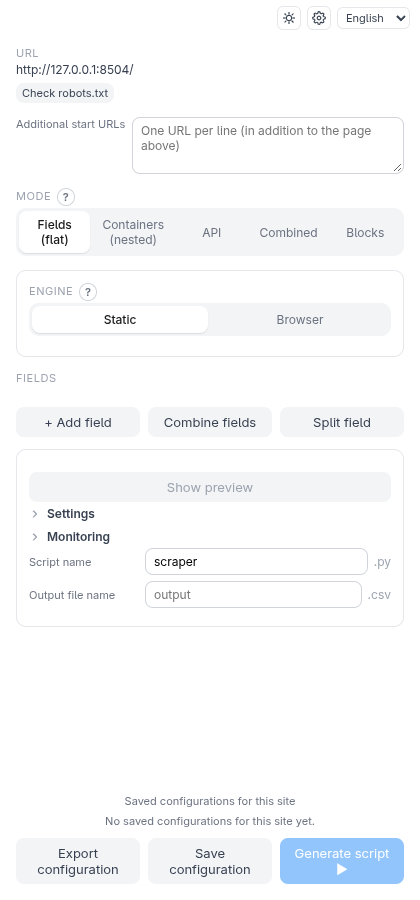
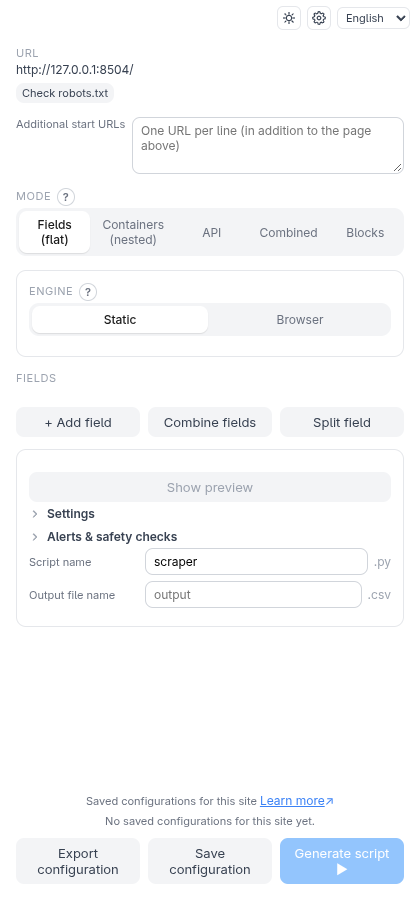
docs: document the bundled documentation and Learn more links; refresh screenshots; fix link styling (#354)

Changed region(s): [[0.2167, 0.8711, 0.7738, 0.9022], [0.0929, 0.5911, 0.4333, 0.6222]]

diff --git a/e2e/examples/issue-354-bundled-docs-check.js b/e2e/examples/issue-354-bundled-docs-check.js
@@ -1,0 +1,145 @@
+// Issue #354 Part B: real-browser check of the bundled documentation and the
+// "Learn more" links, in the real unpacked extension.
+//   - a "Learn more" link in the side panel opens the matching page of the
+//     BUNDLED documentation in a new tab: a chrome-extension:// address (no
+//     internet needed — every request the page makes stays inside the
+//     extension), with the page's heading, its image, the navigation and a
+//     working link to another page;
+//   - a help popover with a doc key ("Checks after every run") offers the link
+//     too and lands on the right heading;
+//   - the link follows the language (de: "Mehr erfahren");
+//   - the long hints are one line now (the retry hint reads as one short line);
+//   - a release-channel build contains the docs as well;
+//   - the Monitoring section stays within the panel at 320/400 px.
+//
+// Runs its own companion on port 5055, so a companion a human already has
+// running on the default port is never used or touched.
+//
+// Usage: node e2e/examples/issue-354-bundled-docs-check.js
+const fs = require('fs');
+const os = require('os');
+const path = require('path');
+const { execFileSync } = require('child_process');
+const { launchBrowser, openPopup, focusFixture, waitForIdleScreen, startCompanion, startFixture } = require('../harness');
+
+function assert(condition, message) {
+  if (!condition) throw new Error(message);
+}
+
+(async () => {
+  const companion = await startCompanion({ port: 5055 });
+  if (companion.alreadyRunning) throw new Error('Something is already listening on port 5055 — stop it first.');
+  const fixture = await startFixture('speisekarte');
+  const browser = await launchBrowser();
+
+  try {
+    const fixturePage = await browser.context.newPage();
+    await fixturePage.goto(fixture.url);
+    const popup = await openPopup(browser.context, browser.extensionId);
+    await popup.evaluate(() => chrome.storage.local.set({ language: 'en', companionUrlOverride: 'http://localhost:5055' }));
+    await popup.reload();
+    await focusFixture(fixturePage);
+    await waitForIdleScreen(popup);
+    const origin = `chrome-extension://${browser.extensionId}/`;
+
+    // 1) A hint link opens the bundled page in a new tab.
+    await popup.click('#monitoring-section-toggle');
+    const hintLink = popup.locator('.monitoring-intro a.learn-more');
+    assert(await hintLink.isVisible(), 'the Monitoring intro should carry a "Learn more" link');
+    assert((await hintLink.textContent()) === 'Learn more', 'unexpected link text');
+    const requests = [];
+    browser.context.on('request', (r) => requests.push(r.url()));
+    const [docPage] = await Promise.all([browser.context.waitForEvent('page'), hintLink.click()]);
+    await docPage.waitForLoadState('load');
+    assert(docPage.url() === `${origin}docs/monitoring.html`, `unexpected address: ${docPage.url()}`);
+    assert((await docPage.locator('h1').textContent()) === 'Safety checks and alerts', 'unexpected heading');
+    assert(await docPage.locator('h2#safety-checks').count() === 1, 'the page should carry the heading anchors');
+    const imageOk = await docPage.evaluate(() => {
+      const img = document.querySelector('img[src="images/monitoring-recommended.png"]');
+      return !!img && img.complete && img.naturalWidth > 0;
+    });
+    assert(imageOk, 'the screenshot on the page should load from the bundle');
+    assert(await docPage.locator('nav.docs-nav a').count() >= 10, 'the page should list the other pages in its navigation');
+    await docPage.screenshot({ path: path.join(__dirname, 'issue-354-docs-page.png') });
+    console.log('hint link: opened', docPage.url());
+
+    // 2) A link between pages stays inside the bundle.
+    await docPage.locator('nav.docs-nav a', { hasText: 'Output formats' }).click();
+    await docPage.waitForLoadState('load');
+    assert(docPage.url() === `${origin}docs/output.html`, `navigation went to ${docPage.url()}`);
+    assert(await docPage.locator('h2#output-layouts').count() === 1, 'the output page should carry its headings');
+    const outside = requests.filter((u) => !u.startsWith(origin) && !u.startsWith('data:') && !u.startsWith('blob:'));
+    assert(outside.length === 0, `the docs reached outside the extension: ${JSON.stringify(outside)}`);
+    console.log('navigation: stays in the extension, no outside request');
+    await docPage.close();
+
+    // 3) A help popover offers the link and lands on the heading.
+    await focusFixture(fixturePage);
+    if (!(await popup.locator('#hardening-config').isVisible())) await popup.click('#monitoring-section-toggle');
+    const helpButton = popup.locator('#hardening-config .help-host[data-help="help.hardening.severity"] .help-btn');
+    await helpButton.click();
+    const popoverLink = popup.locator(`#${await helpButton.getAttribute('aria-controls')} a.learn-more`);
+    assert(await popoverLink.isVisible(), 'the popover should offer a "Learn more" link');
+    const [docPage2] = await Promise.all([browser.context.waitForEvent('page'), popoverLink.click()]);
+    await docPage2.waitForLoadState('load');
+    assert(docPage2.url() === `${origin}docs/monitoring.html#safety-checks`, `unexpected address: ${docPage2.url()}`);
+    assert(await docPage2.locator('#safety-checks').isVisible(), 'the target heading should be visible');
+    await docPage2.close();
+    console.log('popover link: monitoring.html#safety-checks');
+
+    // 4) The long hints are one short line now.
+    await popup.click('#settings-section-toggle');
+    await popup.check('#toggle-retry');
+    const retryHint = await popup.locator('#retry-config .preview-summary span[data-i18n="idle.retryHint"]').textContent();
+    assert(retryHint.length <= 160, `the retry hint should be one short line, got ${retryHint.length} characters`);
+    assert(retryHint === 'Retries after a connection error, a timeout or one of these status codes; other errors such as 404 fail at once.', `unexpected retry hint: ${retryHint}`);
+    const retryLink = popup.locator('#retry-config a.learn-more[data-doc="retry"]');
+    const [docPage3] = await Promise.all([browser.context.waitForEvent('page'), retryLink.click()]);
+    await docPage3.waitForLoadState('load');
+    assert(docPage3.url() === `${origin}docs/network-settings.html#retry-on-transient-errors`, `unexpected address: ${docPage3.url()}`);
+    assert((await docPage3.locator('#retry-on-transient-errors').textContent()).includes('Retry on transient errors'), 'the retry section should be on the page');
+    await docPage3.close();
+    console.log('retry: one-line hint, link to the retry section');
+    await popup.uncheck('#toggle-retry');
+
+    // 5) The link follows the language.
+    await popup.evaluate(() => chrome.storage.local.set({ language: 'de' }));
+    await popup.reload();
+    await focusFixture(fixturePage);
+    await waitForIdleScreen(popup);
+    await popup.click('#monitoring-section-toggle');
+    assert((await popup.locator('.monitoring-intro a.learn-more').textContent()) === 'Mehr erfahren', 'the link should read "Mehr erfahren" in German');
+    await popup.evaluate(() => chrome.storage.local.set({ language: 'en' }));
+    await popup.reload();
+    await focusFixture(fixturePage);
+    await waitForIdleScreen(popup);
+    console.log('german: "Mehr erfahren"');
+
+    // 6) The Monitoring section stays inside the panel with the links in it.
+    for (const width of [320, 400]) {
+      await popup.setViewportSize({ width, height: 1200 });
+      if (!(await popup.locator('#hardening-config').isVisible())) await popup.click('#monitoring-section-toggle');
+      const overflow = await popup.evaluate(() => document.documentElement.scrollWidth - document.documentElement.clientWidth);
+      assert(overflow <= 4, `width ${width}px: horizontal overflow ${overflow}px`);
+      console.log(`width ${width}px: overflow ${overflow}px`);
+    }
+    await popup.setViewportSize({ width: 420, height: 1200 });
+    await popup.screenshot({ path: path.join(__dirname, 'issue-354-learn-more.png') });
+
+    // 7) A release-channel build carries the documentation too.
+    const releaseDir = fs.mkdtempSync(path.join(os.tmpdir(), 'sf-release-'));
+    execFileSync(process.execPath, [path.join(__dirname, '../../extension/build.js'), '--channel', 'release', '--outdir', releaseDir], { stdio: 'pipe' });
+    assert(fs.existsSync(path.join(releaseDir, 'docs/monitoring.html')) && fs.existsSync(path.join(releaseDir, 'docs/images/monitoring-recommended.png')), 'the release build should contain docs/');
+    console.log('release build: docs/ present');
+
+    console.log('OK — "Learn more" opens the bundled documentation offline; the long hints are one line.');
+  } catch (err) {
+    const t = await browser.context.pages().at(-1).locator('#error-toast').textContent().catch(() => null);
+    if (t) console.error('Toast:', t.replace(/\s+/g, ' ').slice(0, 300));
+    throw err;
+  } finally {
+    await browser.close().catch(() => {});
+    await fixture.stop?.();
+    await companion.stop?.();
+  }
+})().catch((err) => { console.error(err); process.exit(1); });

diff --git a/extension/popup/popup.html b/extension/popup/popup.html
@@ -58,9 +58,10 @@
     <div id="error-guidance-long" class="error-guidance hidden">
       <p class="error-intro"><span data-i18n="error.intro"></span> <a class="learn-more" data-doc="companionUnreachable" href="#" data-i18n="common.learnMore"></a></p>
       <div id="error-situation-install" class="error-situation">
-        <h3><span data-i18n="error.install.title"></span> <span class="error-likely hidden" data-i18n="error.likely"></span> <a class="learn-more" data-doc="start" href="#" data-i18n="common.learnMore"></a></h3>
+        <h3><span data-i18n="error.install.title"></span> <span class="error-likely hidden" data-i18n="error.likely"></span></h3>
         <p id="error-install-text"></p>
         <code id="error-install-command" class="error-code"></code>
+        <p class="error-more"><a class="learn-more" data-doc="start" href="#" data-i18n="common.learnMore"></a></p>
       </div>
       <div id="error-situation-start" class="error-situation">
         <h3><span data-i18n="error.start.title"></span> <span class="error-likely hidden" data-i18n="error.likely"></span></h3>

diff --git a/extension/popup/popup.css b/extension/popup/popup.css
@@ -1114,6 +1114,8 @@ input.env-var-invalid, input.env-var-invalid:focus { border-color: var(--color-d
 .glossary-example { display: block; margin-top: 2px; }
 
 /* Issue #354 Part B: "Learn more" opens the bundled documentation in a tab */
-.learn-more { font-size: 12px; white-space: nowrap; color: var(--color-primary); text-decoration: underline; }
+.learn-more { text-transform: none; letter-spacing: normal; font-weight: 400; font-size: 12px; white-space: nowrap; color: var(--color-primary); text-decoration: underline; }
 .learn-more::after { content: ' ↗'; text-decoration: none; display: inline-block; }
 .help-popover-more { margin: 4px 0 0; }
+
+.error-more { margin: 4px 0 0; }

diff --git a/CLAUDE.md b/CLAUDE.md
@@ -77,6 +77,7 @@ docs/
 - **Dark mode + visual modernization pass** (Issue #140): builds directly on #139's token groundwork — every color/overlay/shadow token now lives in a light/dark pair instead of one fixed set. `:root` carries the light defaults; `@media (prefers-color-scheme: dark) { :root:not([data-theme]) { ... } }` redefines them automatically when the OS prefers dark and the user hasn't made an explicit choice; an explicit `html[data-theme="light"|"dark"]` override (see `shared/theme.js` below) always wins over both, and needs no rule of its own for "light" specifically since the media query already stays out of its way when the attribute is present. `color-scheme: light dark` on `:root` (narrowed to a single value by the two explicit-override rules) gives native form controls — checkbox/select-popup chrome, and any `input`/`textarea` with no explicit background of its own, like `#input-additional-urls` — a correct dark rendering for free. **Contrast audit** (called for by the issue): every status color already read from #139's token set, so brightening them for dark backgrounds was enough — no per-rule changes needed for `.robots-txt-allowed`/`.preview-summary.warn`/toast variants/etc. One real bug the audit *did* catch: several "white text on a colored background" rules (`.btn-primary`, `.toast`, picked chips) used `var(--color-surface)` for that text color — correct by coincidence in light mode (surface happens to be white) but flips to near-black in dark mode. A new theme-agnostic `--color-on-accent` token (always a light color regardless of theme, since the accent backgrounds themselves stay readable with light text in both) replaces `--color-surface` at every one of those call sites. **Manual toggle**: a new `extension/shared/theme.js` mirrors `i18n.js`'s `getStoredLanguage`/`setLanguage` pattern exactly (`chrome.storage.local`), with one difference — "follow the OS" is a real third state, represented as `null` (not a storable `'system'` string) throughout the module. `#theme-toggle` next to the language selector cycles system → light → dark → system on click (`SFTheme.cycleTheme`), a single compact icon button chosen over a dropdown for lack of panel-width room next to the existing language `<select>`. **Modernization** (requested alongside the issue, not part of its own scope): the radius scale is nudged up again (6/8/10/14, from #139's 4/6/8/10) for a softer feel; `--transition-fast` switches from a plain linear ease to the "standard" `cubic-bezier(0.4, 0, 0.2, 1)` easing curve; a new `--glow-primary` gives `.btn-primary:hover` a soft colored glow instead of a flat color swap; the old flat `--shadow-sm`/`--shadow-md` pair is replaced by a graded `--elevation-1/2/3` scale (layered shadow pairs) for more "floating" depth on the mode-toggle active pill and modal; the `.mode-toggle`/`.mode-btn` segmented controls (mode/engine/notify-method — three markup instances) gain an animated sliding `.mode-toggle-thumb` behind the active button instead of each button just recoloring itself in place, positioned via `popup.js`'s `syncModeToggleThumbs()` (JS, not CSS-only, since it depends on the active button's actual rendered offset/width) — called at the end of every `render()` and on a rAF-throttled `window.resize` listener, since the side panel is user-resizable; `.engine-section`/`.output-settings` get an outlined "card" (border only, no fill, since their own children already use `--color-surface-subtle`) to break up the idle screen's otherwise undifferentiated list of settings — the mode-specific sections are deliberately left unboxed since they're the primary content being edited and already carry their own row-level visual treatment; every scrollable container from #138/#122 gets a slim `::-webkit-scrollbar` (Chromium-only, matching the extension's own supported browser range). Deliberately out of scope, same reasoning as #139: turning text-label buttons into icon+label.
 - **esbuild bundling; "Load unpacked" points at `extension/dist/`** (Issue #389): the extension is no longer loaded straight from its source folder. `extension/build.js` (`npm run build`, `npm run build:watch`, plus `--channel release` and `--outdir <dir>` for `install/build-bundle.sh`) bundles four entry points — `popup/popup.js` (side panel), `content/content-script.js` (isolated world, every frame; `shared/logger.js` is bundled in, so the manifest no longer lists it), `content/api-capture.js` (the `"world": "MAIN"` recorder, `document_start`) and `background/service-worker.js` — as `iife` for Chromium 114+ into `dist/<same relative path>`, source maps beside them, and copies the static files (`manifest.json`, `popup/popup.html`, `popup/popup.css`, `popup/screens/*.html`) to the same relative paths, so `chrome.runtime.getURL('popup/screens/idle.html')` and the manifest paths are unchanged. `dist/` is git-ignored; Jest, `tsc` and the e2e harness treat it as build output (`modulePathIgnorePatterns`, `exclude`). **What the bundler replaced:** every module used to carry dual-environment boilerplate so the same file ran as a classic `<script>` (shared global scope) and under Jest (CommonJS) — an IIFE assigning one `self.SFXxx` global, a `typeof require !== 'undefined' ? require(...) : self.SFXxx` shim per import, a `typeof module`/`self` export footer, a 56-line `<script>` list in `popup.html`, and `classic-script-loading.test.js` guarding the top-level-name-collision bug class that came with it. All of that is gone: a module is now plain CommonJS (`const { x } = require('./y')`, `module.exports = { ... }`), `popup.html` has one `<script src="popup.js">`, and Jest keeps running the sources directly. No behavior change. **The three explicit replacements for what used to be environment sniffing:** `i18n/i18n.js` `require`s the three dictionaries statically (inlined into the popup bundle, loaded identically in Jest — no fetch, no `chrome.runtime.getURL`); `popup.js`'s `loadScreenPartial` and `content/api-capture.js`'s fetch/XHR patching check `process.env.NODE_ENV === 'test'` (Jest sets it, the build `define`s it to `"production"`, so the code is dead-branch-free in the bundle and `process` never exists at runtime — never reference `process` for anything else). **Release channel** (Issue #352): `shared/build-config.js` derives `CHANNEL` from `process.env.SF_CHANNEL`, which `build.js` always `define`s (`"development"` by default, `"release"` for `--channel release`); `install/build-bundle.sh` builds the release channel into a temp dir (`npm ci` + `node build.js --channel release --outdir …`, then ships the bundle without `.map` files) instead of `sed`-rewriting a source line, and `build.js` fails the build if a release build did not actually produce the release constant. `shared/companion-url-policy.test.js` builds the real module with each channel to prove it. **Consequences for contributors:** after editing extension code run `npm run build` (or leave `build:watch` running) and reload the extension at `chrome://extensions`; there are no page-level globals any more (`self.SFXxx`, `SFTheme`, a popup's `_state`) — a real-browser check that needs to reach into the popup must go through the DOM, `chrome.storage` or Playwright routes, not `page.evaluate(() => SFFoo…)`; a new module needs no `popup.html` edit, just a `require`. TypeScript conversion stays a separate, file-by-file follow-up.
 - **Monitoring / Hardening in plain language** (Issue #399, UX audit finding 4): the Monitoring section is a "set and forget" feature for scripts that run repeatedly and unattended, but nothing said so, the five hardening checks were bare labels, and the Warning/Error toggle was explained only by a hover tooltip in terms of exit codes. **Labels and help only — no change to the wire format or the generated scripts** (the wire severities stay `Warning`/`Error`; only what the buttons say changed). A one-sentence **intro** (`idle.monitoringIntro`: only useful if you run the script again and again, e.g. every night); a **"Checks after every run"** heading whose "?" (`help.hardening.severity`) explains severity in plain words — **"Warn me"** (the run finishes, a message is printed) vs. **"Stop the run"** (marked as failed so a scheduler/monitor notices; exit code 2, an unexpected crash is 1) — which replaces the four hover-only `…SeverityWarning/ErrorTitle` tooltips (removed, as is the `title` attribute; the dynamic null-rate row never had one); a **"?" popover per check** (`help.hardening.noResult|nullRate|baseline|blocking|requiredFields`, one sentence of purpose plus an example) on the check's own toggle/heading; **thresholds as sentences** — "Trigger if there are [20] % fewer rows than in the last run" (static, `.hardening-sentence`) and, in each dynamic null-rate row, "[Preis ▾] is empty in more than [50] % of the rows" (`idle.hardeningNullRateMiddle/After`; the row now wraps), with the existing defaults (20 % / 50 %) unchanged; the blocking check's two rarely needed signals (**min. response length** as "Page shorter than [ ] bytes (optional)" and **block phrases**) sit under an **Advanced** disclosure (`<details data-advanced="hardening-blocking">`, the #396 component, collapsed by default and remembered) with one popover (`help.hardening.blockingAdvanced`: "1000 bytes is about one paragraph", phrases such as "Access Denied"); the blocking toggle reads "Check whether the site blocks the script". **"Recommended checks"**: `popup/hardening-presets.js` (pure, `@ts-check`) `applyRecommendedHardening(hardening, fieldNames)` → `{ hardening, applied, needsFields }` switches on **"empty result" as "Warn me"** and **"required field" for the FIRST field only, as "Warn me"** — the required-fields check *drops rows* from the output, so it is only suggested for the first field (usually the name/ID that makes a row meaningful), never for all of them (that would silently drop rows whose optional fields are legitimately empty); it **only ever adds** — a check already on, or fields already listed for "required", are left exactly as they are, so a second click changes nothing — and without fields only "empty result" is set and the note says why the rest is missing. Wired in `settings-panel-ui.js` (`#btn-hardening-recommended`, a note `#hardening-recommended-note` saying what was switched on; the button has its own "?" `help.hardening.recommended`); the baseline-drop check was deliberately *not* added to the preset (the issue names "empty result" + required fields). Covered by `hardening-presets.test.js` (the preset incl. the resulting wire checks through `buildHardeningConfig`), `hardening-presets-ui.test.js` (the button, the note, the labels, sentences and the Advanced disclosure against the real `idle.html`) and `e2e/examples/issue-399-hardening-plain-language-check.js` (intro/heading/severity wording, one popover per check with an example, the preset, **the real `/generate` request captured from the network carries exactly `noResult` + `requiredFields[first field]` as warnings**, Advanced collapsed, de/es, 280/320/400 px).
+- **Bundled user documentation, "Learn more" links and one-line hints** (Issue #354 Part B): the long explanations moved out of the side panel into `docs/user/` (Part A), and the panel now links to them **offline**. **Build** (`extension/docs-build.js`, called from `build.js`, rebuilt on change in `build:watch`): `buildDocs({ docsDir, outdir })` turns `docs/user/*.md` into `<outdir>/docs/<page>.html` with the `docs-template/docs.css` stylesheet (light/dark via `prefers-color-scheme`, a navigation of all pages, **no script** — an MV3 extension page may not run inline script) and copies `images/`; it uses **`marked`** (a devDependency, ES-module only, hence `await import('marked')` and a tiny CLI `node docs-build.js <docsDir> <outdir>` that the Jest test runs in a real Node process). Heading ids follow GitHub's slug rule (`slugify`, also what `e2e/screenshots/check-docs.js` now imports, with `-1`/`-2` for repeats); `.md` links become `.html` (anchors kept), a link out of `docs/user/` (the developer docs the README mentions) is shown as plain text since it isn't shipped, and **a link to a missing page, anchor or image fails the build** instead of shipping a dead link. Page order is `PAGE_ORDER` (new pages are appended alphabetically). The pages are served from the extension's own origin (`chrome-extension://<id>/docs/…`), so nothing external is ever fetched — the e2e check records every request of a docs tab and asserts none leaves the extension. **Release bundles**: they take the extension from `dist/` (so the HTML pages are inside it) and `install/build-bundle.sh` additionally copies `docs/user/` (Markdown + images) to `docs/` at the bundle root; `INSTALL.md` says so. **"Learn more"**: `popup/docs-links.js` (`@ts-check`) is the **one table** `key → "page#anchor"` (`DOC_TARGETS`), `resolveDocTarget(key)` returns `docs/<page>.html#anchor`; markup says `<a class="learn-more" data-doc="<key>" href="#" data-i18n="common.learnMore"></a>` (inside a hint: `<p><span data-i18n="…Hint"></span> <a …></a></p>`, since `data-i18n` replaces an element's whole content), DOM built in JS uses `learnMoreHtml(key)`, and a help popover gets the link when its host carries `data-doc="<key>"` (`helpHostHtml(key, docKey)` for built hosts; the env-var note does this). `popup/docs-links-ui.js`: `initDocsLinks()` gives each link its real `chrome.runtime.getURL(...)` address (hover / middle click) and a delegated click (`wireDocsLinkEvents`, wired once) opens it with `chrome.tabs.create` — no new permission, `tabs` was already declared; `popup.js` runs `initDocsLinks()` next to `initHelpPopovers()` (static translation pass and the end of every `render()`). **The registry is enforced both ways** by `docs-links.test.js`: every target must exist as a page + heading of `docs/user` (a renamed heading breaks exactly this table, not the panel), every key used in the HTML/JS must be registered, and **every registered key must be used** (no dead targets). **Hints**: every static `*Hint` paragraph that had grown into a paragraph (nine over 250 characters, about fifteen more over 160) is now one line — what the user must know *before* clicking (a limit, a requirement like `openpyxl`, a warning such as "the session file holds live cookies") — plus its link; the detail moved onto the matching docs page (pause example and robots.txt behaviour in `network-settings.md`, the skip-the-trial-run and editable-config-file sections, the key-file and key-field details of duplicates, the text filter in `modes.md`, the password/token note in `authentication.md`), so nothing was lost. Texts that change what a user must do stay as they were (errors with a next step, `toast.*`, the login-flow instructions, `persistentSessionHint`). `i18n/hint-length.test.js` fails when a `*Hint` grows back over **160 characters in English / 190 in German / 200 in Spanish** — reword short and put the explanation on the page. **Language**: the docs stay English (the German version is a separate, later piece of #354); only the link text (`common.learnMore`) is de/en/es. Covered by `docs-build.test.js` (ids, link rewriting, the failure cases, the real docs build), `docs-links.test.js`, `docs-links-ui.test.js` (address, click, unknown key, popover link), `hint-length.test.js` and `e2e/examples/issue-354-bundled-docs-check.js` (real extension: a hint link and a popover link open the bundled page in a new tab with heading, image and navigation, no request leaves the extension, the retry hint is one line and links to its section, "Mehr erfahren" in German, no overflow at 320/400 px, a release-channel build contains `docs/`).
 - **Terminology pass, Advanced groups, glossary** (Issue #407, UX audit findings 13–18 and 20): **labels and grouping only — wire format, companion and generated scripts unchanged** (the wire still says `blueprint`, `hardening`, `discovery`, `preflight`, `deduplication`; the companion's own English error texts keep those words too, they are not UI). **Names** (all in `de`/`en`/`es`, decided with the maintainer; i18n *keys* stayed, only values changed): *Output blueprint* → **Output layout** / *Ausgabe-Layout* / *Diseño de salida* (a Spanish word with masculine agreement — "eliminado/guardado"); *Hardening* → **Safety checks** (*Sicherheitsprüfungen*, *comprobaciones de seguridad*) incl. the saved-output "Test safety checks" button; the *Monitoring* section → **Alerts & safety checks** (*Benachrichtigungen & Prüfungen*, *Avisos y comprobaciones*); *Preflight* → **Skip if the page hasn't changed**; *Browser discovery* / *Discovery URL* → **Collect from the page (browser)** / **Page to open** (the value-list source "List from another request" is #404's); *Deduplication by key field(s)* → **Remove duplicates**. Blanket string replacement in the dictionaries collided once (the *transform preset* "Nombre de la plantilla" in `es` was also hit) — when renaming a term, search for its other senses first. **Explanations**: new popovers `help.outputLayout.overview` (next to the output-layout select; the host sits on the row with `data-help-anchor` so the panel opens below the row), `help.safetyChecks.overview`, `help.preflight.overview`, `help.dedup.overview` (the long hints stay for #354 Part B). **Advanced** (the remembered #396 component, one `data-advanced` id each): retry **status codes** (`retry-status-codes`), dedup **retention** (`dedup-retention`), **Reuse session between runs** (`persistent-session`), **Editable config file (XML)** on the Settings screen (`external-config`) and the download **size / content-type limits** in both field modals (`download-limits-flat` / `download-limits-container` — separate ids because the two modals aren't on screen together and a remembered state shouldn't half-sync); the scroll step, click target and the blocking/pagination/discovered-URL/API options were already under Advanced. `autoOpenAdvanced(element, shouldOpen)` (moved from `api-config-shared-ui.js` to `advanced-disclosure-ui.js`) opens a disclosure **once** when its option is in use and re-arms when it isn't, so a returning user's setting is never tucked away and a user who closes it isn't fought; "in use" is a toggle that is on, or — pure, in `popup/advanced-defaults.js` — `retryStatusCodesDiffer(text)` / `dedupRetentionDiffers(dedup)` (a list or retention different from its default; order and separators ignored). **Split field counts from 1**: the modal says "Part (1 = first)" (`modals.splitField.indexLabel`, min 1, default 1) and `partNumberToIndex`/`indexToPartNumber` (`combine-split-fields.js`, the only place with the ±1) convert — `SplitFieldTransform.index` stays 0-based on the wire, in saved/exported configurations and in the generated script, so nothing stored changes meaning. **Glossary**: a remembered `data-advanced="settings-glossary"` disclosure at the top of the Settings screen; `popup/glossary.js` (`@ts-check`, pure) maps `GLOSSARY_ENTRIES` (`{ termKey, helpKey }`) to `{ term, text, example }` using `getHelpEntry`, i.e. **the explanations are the help popovers' own texts** — one place to reword, and an entry whose text is missing in the active language is left out instead of showing a key; `glossary-ui.js` renders it with `textContent` from `renderSettingsScreen`. Entries: output layout, safety checks (`glossary.safetyChecks`), skip-if-unchanged, remove duplicates, list from another request, collect from the page, environment variable. Covered by `advanced-defaults.test.js`, `advanced-groups-ui.test.js` (each rare option sits inside its disclosure, collapsed by default, auto-open once/re-arm), `glossary.test.js` (all three languages, no raw keys, the real `settings.html`), the split cases in `combine-split-fields.test.js`/`popup.test.js`, and `e2e/examples/issue-407-terminology-advanced-check.js` (the labels in en/de/es, retry status codes behind a collapsed Advanced — remembered across a reload, opened by itself for a changed list —, the glossary, and a **real Generate** whose split part 2 yields `4711` and part 1 `Art.-Nr.`); the older `issue-225` and `combine-split-fields` checks were adapted (open the retention disclosure; "Part 2"; the data-preview switch moved to the Settings screen earlier and that check had gone stale).
 - **API mode: JSON-path pickers, popovers, Advanced** (Issue #404, UX audit finding 9): the API_CONFIG screen asked for typed JSON paths (a group's path, the cursor and "has more" paths, the cursor's body slot, the bootstrap token's path) and explained its concepts only partly. **Wire format, generated scripts and companion unchanged.** **Picker, pure** (`popup/json-path-picker.js`, `@ts-check`): `buildJsonPathTree(json, { mode, scopePath })` → `{ nodes, truncated, scopeFound }` and `resolveJsonPath`, producing paths in exactly the runtime syntax (`_PATH_TOKEN_PATTERN`: dot keys, `[n]`; a key containing `.`/`[`/`]` is shown but not selectable since the script can't address it). Three modes: **`leaf`** (a scalar/null is picked — cursor, flag, token; an array is shown through its first item), **`group`** (an object or array is picked; the tree is **rooted at the parent scope's first instance** (`resolveApiGroupScopePath`, the "first instance is the template" rule) so paths come out **relative to the parent**, and arrays are terminal — what is inside a list belongs in a nested group, not in one long path; a scope missing from the JSON is reported, not guessed), **`body`** (like `leaf`, but arrays aren't entered: `isValidBodyPath` forbids `[`). A cap of 400 nodes (`truncated`). Source lookup: `findSourceEntry` (by `sourceEntryId`, else the latest with the same URL + method — the lookup "Detect from recording" already used), `parseEntryJson` (says *why* a body can't be offered: `truncated`, `notJson`, `skipped`, `noBody`, `noEntry`; a bare scalar has nothing to pick), `jsonResponseEntries` (successful, parseable recorded responses, the preferred URL first). **UI** (`popup/json-path-picker-ui.js`): a **"Pick from the recording"** button under each path input opens a panel with the tree; a click on a selectable node fills the path and closes it. The picker is **state-driven** — `_state.apiPathPicker = { field, token, status: 'loading'|'chooser'|'tree'|'message', … }`, never persisted — because the cursor and bootstrap sections rebuild their HTML on every state change; a `token` drops a result that arrives after the user closed it, and the button toggles. `field` ∈ `group` / `cursor.nextCursorPath` / `cursor.hasNextPagePath` / `cursor.bodyPath` (the recorded **request** body) / `bootstrap.valuePath` (the recorded response of the token request itself, matched by its URL + method — with no match, a **chooser** over the recorded JSON responses). Group picks write only the modal's path input (plain DOM); cursor/bootstrap picks patch the draft. With nothing recorded, or a truncated/non-JSON/body-less source, the panel says so plainly and typing stays possible; "Detect from recording" stays next to it. For an **embedded-JSON** source there is no recorded response, so a new pull-based message **`GET_EMBEDDED_JSON { scriptSelector }`** (popup → service worker → content script, exactly like `GET_API_CAPTURE_ENTRIES`; `readEmbeddedJson` returns `{ body, truncated, found }`, bodies over 2 MB are reported as truncated, not cut) reads the one `<script>` the config was confirmed against. Wired via `wirePathPickerEvents(bridge, container)` on one stable element per input (the cursor section, the bootstrap section, the group modal) and `renderGroupPathPicker` from `renderApiConfigModals`. **Bug fixed on the way:** `renderApiConfigModals` reset the group modal's inputs on *every* render while it was open (harmless while only typing, which doesn't render), which would have wiped the typed name when the picker loaded — it now resets only on the opening render (`groupModalWasOpen`, since popup.js hides every modal at the start of each render and "just opened" can't be read off the DOM). **Popovers** (#396): `help.apiConfig.urlParts` (what a *variable* part is, on both URL labels), one per value source (`sourceStaticList`/`sourceDiscovery`/`sourceRange`/`sourceBrowserDiscovery`/`sourceBootstrap`, each with an example, next to its radio), `bodyVariable` (what "→ Variable" does), `valueType`; the long `apiBootstrap/apiCursor/apiLink.hint` paragraphs became `help.apiBootstrap/apiCursor/apiLink.overview` (the keys must stay flat `help.<area>.<field>` for the sync test). **Advanced** (the remembered #396 component): the **auth bootstrap**, **cursor pagination** and **Link-header pagination** sections each sit in their own disclosure (`api-bootstrap-advanced`/`api-cursor-advanced`/`api-link-advanced`) whose one-line summary says when it applies; `autoOpenAdvanced` (in `api-config-shared-ui.js`) opens one by itself once the option is on — and the Link one when the recording carried a `rel="next"` header — and re-arms when it's off, never fighting a user who closes it; the embedded-JSON hiding applies to the whole block (`section.closest('details')`). In each value-source card **Value list / List from another request / Range** are up front and **Browser discovery** plus the bootstrap's **Token value** are under "Advanced sources" (`api-source-advanced`, opened while one of them is chosen); a body variable's **value type** sits in its own "Advanced: value type" with a "?" (opened when a non-default type is already set). **Label:** "Discovery endpoint" → "List from another request" (de/es too; the wire kind is still `discovery` — systematic terminology is #407). Covered by `json-path-picker.test.js` (tree → path for all three modes, the syntax round trip through `resolveJsonPath`, scope-relative group paths checked against `resolveApiGroupScopePath`, size cap, source lookup), `json-path-picker-ui.test.js` (loading, picking per field, chooser, no-recording/truncated/not-JSON/no-body/missing-scope messages, the embedded flow), `api-config-guidance.test.js`, `GET_EMBEDDED_JSON` tests in `service-worker.test.js`/`content-script.test.js`, and three real-browser checks with real trial runs — `issue-404-api-cursor-picker-check.js` (cursor paths picked, all seven items scraped), `issue-404-api-bootstrap-picker-check.js` (token path cleared and picked again, fresh token fetched) and `issue-404-api-guidance-check.js` (group path relative to the parent, popovers, Advanced groups, value type); the #220/#224/#321 checks now open their "Advanced" first.
 - **`api-config-ui.js` split into focused modules** (Issue #390, first item of the oversized-modules tracking issue — `content-script.js`, `popup.js`, `saved-configs-ui.js`, `settings-panel-ui.js`/`output-blueprints-ui.js`, `api-config.js` and `scraping-config-builder.js` follow in their own PRs): the 1,967-line API-mode UI module is now `api-capture-ui.js` (recording, searches, candidate/recorded-request lists, confirming a candidate), `api-response-tree-ui.js` (response tree, group + leaf-transforms modals, tree search), `api-parameters-ui.js` (URL parts, parameter-source cards), `api-browser-discovery-ui.js` (the BrowserDiscoverySource editor), `api-request-ui.js` (captured headers, POST body tree + its modal) and `api-config-shared-ui.js` (`patchApiConfigDraft`/`patchApiConfigSource`, the parameter-placeholder picker) — each under 500 lines — with `api-config-ui.js` left as a ~350-line orchestrator (`renderApiConfigScreen`, `confirmApiConfig`, `cancelApiConfig`, `renderApiConfigModals`, `wireApiConfigEvents`) that **re-exports every name it used to export**, so `popup.js`, `idle-screen-ui.js` and the tests import unchanged (`api-config-ui-exports.test.js` pins the surface and that each name is the very function of its module). **A pure move**: every code line is verbatim (verified by comparing the multiset of non-blank lines before and after; only imports/exports and the wiring scaffolding differ), comments move with their code (trimming them is #379), tests stay where they are (moving them is #393). The two oversized wire functions are broken up: `wireApiConfigEvents` (335 lines) became one `wire…Events(bridge)` per module (`wireApiCaptureEvents`, `wireApiResponseTreeEvents`, `wireApiParameterEvents`, `wireApiRequestEvents`) called in the same order, and `wireApiCandidateListEvents` (341 lines in a closure) is a module-level export of `api-capture-ui.js`, which the orchestrator also uses for the tree-search list. The one listener that spanned two areas — `#api-config-parameters`' `change`/`click` — keeps a **single** handler in `api-parameters-ui.js` whose last statement hands over to `handleBrowserDiscoveryChange`/`handleBrowserDiscoveryClick` (`api-browser-discovery-ui.js`), preserving the original if-chain semantics. **Dependency direction** (no cycles, none imports `api-config-ui.js`): shared ← tree, capture, request, browser; browser, capture ← parameters; everything ← orchestrator. **One real bug found and fixed first, in its own commit** (`removeApiTreeNode` was used by the response-tree "Remove" handler but never imported into `api-config-ui.js`; it only worked while every module shared one global scope, so since the esbuild bundling of #389 clicking Remove on an API tree row threw a `ReferenceError` — regression test `api-tree-remove.test.js`). A small throwaway reference check (a `@babel/parser` + `traverse` pass over each file) found it; the split files were verified with the same pass. Covered by the existing popup suite plus `e2e/examples/issue-390-api-config-ui-check.js` (api-nested-and-post fixture: record the POST search, confirm a field with its siblings, remove a row, add/remove a group, open the transforms modal, turn the body's `category` into a new variable, give it a value list, and a **real Generate that requests both categories**); the #220/#224/#321 API-mode checks pass unchanged.

diff --git a/.claude/skills/feature-workflow/SKILL.md b/.claude/skills/feature-workflow/SKILL.md
@@ -98,7 +98,7 @@ Skip this only for changes with no browser-visible behavior (pure companion/temp
 
 Update the documentation relevant to the project — e.g. README, doc comments on new public functions/classes (in the idiom of the respective language, e.g. XML doc comments for C#, JSDoc for TypeScript, docstrings for Python), and the CHANGELOG if one exists. Check which documentation conventions already exist in the project (including the language used) instead of introducing new ones. Commit this separately with an English commit message, e.g. `docs(csv-export): document CsvExportService usage`.
 
-**User documentation (mandatory for anything user-visible).** `docs/user/` is the documentation for people *using* the extension (written in English; see its `README.md` for the page index). A feature that changes what a user sees or does must update the matching page there — add a short section with a worked example, and refresh or add its screenshots — the same way it updates `CLAUDE.md` and `docs/ARCHITECTURE.md`. Screenshots are generated, never hand-made: add or extend a scenario in `e2e/screenshots/scenarios/`, run `node e2e/screenshots/run.js --only <id>`, reference `images/<name>.png` from the page, and verify with `node e2e/screenshots/check-docs.js` (all links, anchors and images resolve; no unused image). Long explanations belong on that page, not in a new long `*Hint` string in the extension — keep UI hints to one line. Commit docs and regenerated images together (`docs(user): …`). Skip only for changes with no user-visible effect, and say so in the final message.
+**User documentation (mandatory for anything user-visible).** `docs/user/` is the documentation for people *using* the extension (written in English; see its `README.md` for the page index). A feature that changes what a user sees or does must update the matching page there — add a short section with a worked example, and refresh or add its screenshots — the same way it updates `CLAUDE.md` and `docs/ARCHITECTURE.md`. Screenshots are generated, never hand-made: add or extend a scenario in `e2e/screenshots/scenarios/`, run `node e2e/screenshots/run.js --only <id>`, reference `images/<name>.png` from the page, and verify with `node e2e/screenshots/check-docs.js` (all links, anchors and images resolve; no unused image). Long explanations belong on that page, not in a new long `*Hint` string in the extension — keep UI hints to one line (a Jest test enforces the length) and give the section a **Learn more** link: `<a class="learn-more" data-doc="<key>" href="#" data-i18n="common.learnMore"></a>` with the key added to `extension/popup/docs-links.js` (page + heading of `docs/user`; `docs-links.test.js` fails on a stale or unused key, `npm run build` fails on a broken link inside the docs). Commit docs and regenerated images together (`docs(user): …`). Skip only for changes with no user-visible effect, and say so in the final message.
 
 ## Step 8: Open a pull request against dev
 

diff --git a/docs/user/README.md b/docs/user/README.md
@@ -47,6 +47,14 @@ your machine; there is no cloud service.
 - Screenshots live in [`images/`](images/) and are generated, not hand-made —
   see [Maintaining these docs](#maintaining-these-docs).
 
+## Where these pages live
+
+On GitHub they are rendered from `docs/user/`. Inside the extension they ship as
+HTML pages (built from these same files when the extension is built) that the
+**Learn more** links in the side panel open in a browser tab — offline, no
+external address involved. The release bundles also contain the Markdown files
+and images in their `docs/` folder.
+
 ## Maintaining these docs
 
 Contributors: a pull request that changes what a user sees or does must update
@@ -65,8 +73,13 @@ node e2e/screenshots/run.js --list            # list scenario ids
 node e2e/screenshots/check-docs.js            # verify every image and link in these pages exists
 ```
 
+A new **Learn more** link in the extension needs a key in
+`extension/popup/docs-links.js` that points at a page and heading here — renaming
+a heading that a link uses makes that file's test fail until the key is updated.
+Keep the hints in the extension to one line and put the explanation on the page.
+
 Scenarios live in `e2e/screenshots/scenarios/`; each one names a fixture, the
 clicks to reach a screen, and the image to save. To add a screenshot to a page,
 add (or extend) a scenario, run it, and reference
 `images/<name>.png` from the page. Pages use stable headings, because the
-extension will link to them.
+extension links to them.

diff --git a/docs/ARCHITECTURE.md b/docs/ARCHITECTURE.md
@@ -668,6 +668,21 @@ CLAUDE.md for the details.
 - Tests: `popup/hardening-presets.test.js`, `popup/hardening-presets-ui.test.js`,
   real-browser check `e2e/examples/issue-399-hardening-plain-language-check.js`
 
+### 2.10l Bundled documentation and "Learn more" (Issue #354 Part B)
+
+`docs/user/*.md` is built into HTML pages inside the extension (`dist/docs/`), the panel's
+long hints became one line each, and "Learn more" links open the bundled page offline. No
+wire-format or companion change. See CLAUDE.md for the details.
+
+- Build: `extension/docs-build.js` (markdown → HTML, link/anchor check, `slugify`),
+  `extension/docs-template/docs.css`, `extension/build.js` (`copyDocs`), `install/build-bundle.sh`
+  (docs as files in the bundle)
+- Extension: `popup/docs-links.js` (key → page#anchor table), `popup/docs-links-ui.js`
+  (links, click, `learnMoreHtml`), `popup/help-popover-ui.js` (`data-doc` on a help host),
+  `popup/screens/*.html`/`popup.html` (the links), `common.learnMore` + shortened `*Hint` texts in `i18n/*.json`
+- Tests: `docs-build.test.js`, `popup/docs-links.test.js`, `popup/docs-links-ui.test.js`,
+  `i18n/hint-length.test.js`, real-browser check `e2e/examples/issue-354-bundled-docs-check.js`
+
 ### 2.10k Terminology pass, Advanced groups and glossary (Issue #407)
 
 Plainer names for the jargon terms (output layout, safety checks, "Alerts & safety checks",

diff --git a/docs/user/getting-started.md b/docs/user/getting-started.md
@@ -103,7 +103,10 @@ It writes `output.csv` next to itself, one row per dish.
 
 Options with a small **?** button next to them have a short explanation and an
 example. Click it (or press Enter on it) to open it, press Escape or click
-elsewhere to close it. These pages go into more depth.
+elsewhere to close it. Many of them, and most options with a short hint, also have
+a **Learn more** link: it opens the matching page of this documentation in a new
+tab. The pages are bundled inside the extension, so this works without an
+internet connection.
 
 ## What next
 
